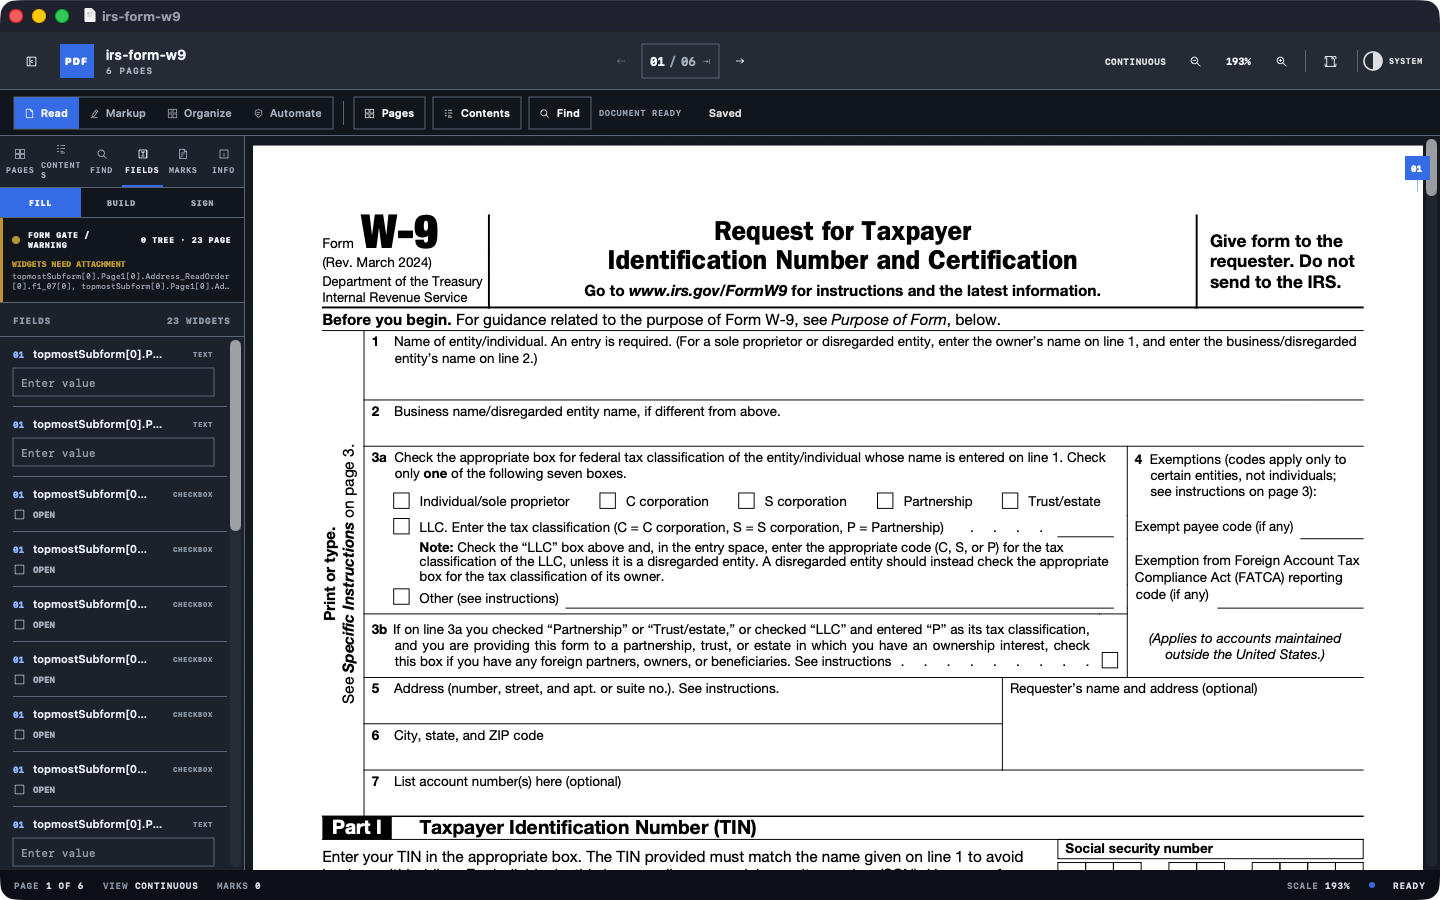
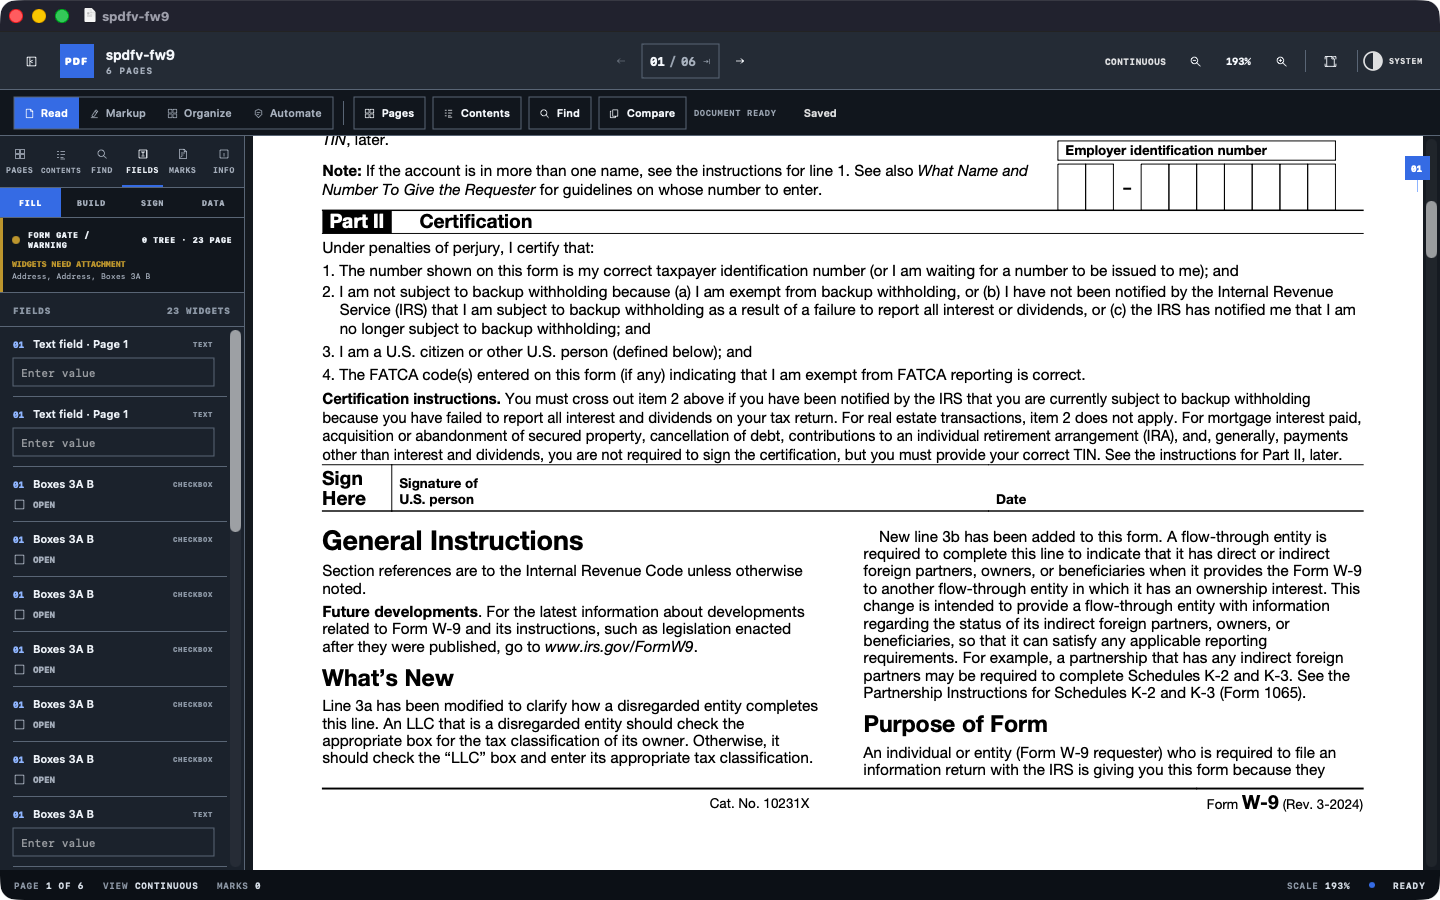
Refresh repository screenshots

diff --git a/SPDFV/ContentView.swift b/SPDFV/ContentView.swift
@@ -159,9 +159,16 @@ struct ContentView: View {
             environment[key] ?? defaults.string(forKey: key)
         }
 
-        if captureValue("SPDFV_UI_TEST_WINDOW_SIZE") == "app-store" {
+        if let captureSize = captureValue("SPDFV_UI_TEST_WINDOW_SIZE") {
             DispatchQueue.main.async {
-                NSApp.keyWindow?.setContentSize(NSSize(width: 1080, height: 760))
+                switch captureSize {
+                case "app-store":
+                    NSApp.keyWindow?.setContentSize(NSSize(width: 1080, height: 760))
+                case "github":
+                    NSApp.keyWindow?.setContentSize(NSSize(width: 1440, height: 868))
+                default:
+                    break
+                }
             }
         }
 
@@ -186,6 +193,11 @@ struct ContentView: View {
            let oneBasedPage = Int(rawPage),
            oneBasedPage > 0 {
             session.goToPage(oneBasedPage - 1)
+        }
+        if captureValue("SPDFV_UI_TEST_COMMAND_PALETTE") == "1", edition == .direct {
+            DispatchQueue.main.async {
+                commandPalettePresented = true
+            }
         }
 #endif
     }
